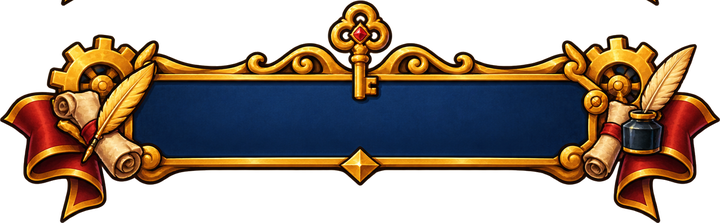
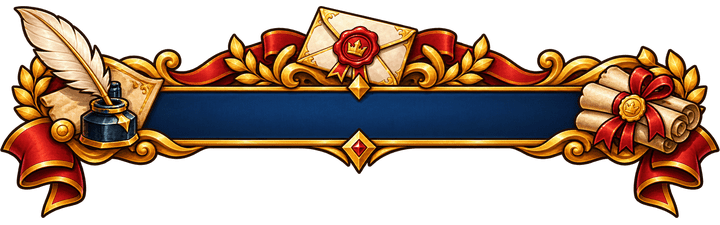
우편함 제목 배너
Claude-Session: https://claude.ai/code/session_011AypWsTwCXy5ahmKUPDYwt

diff --git a/sw.js b/sw.js
@@ -1,6 +1,6 @@
 /* 왕이 되는 그날까지 — 오프라인 실행용 서비스 워커 (tools/build_sw.py가 만듦, 직접 고치지 말 것) */
-const VERSION='c8984c0cf5';
-const MAP={"assets/bg/ash_far.png":"abfdc7ad7e","assets/bg/ash_ground.png":"fbd17f65c8","assets/bg/ash_mid.png":"bf807812ec","assets/bg/ash_sky.png":"300201d8a2","assets/bg/canyon_far.png":"a9cc422fed","assets/bg/canyon_ground.png":"d5f682c619","assets/bg/canyon_mid.png":"e5e4324591","assets/bg/canyon_sky.png":"9c202a64b5","assets/bg/dusk_far.png":"f566503025","assets/bg/dusk_ground.png":"d4760254fd","assets/bg/dusk_mid.png":"e0989d31a1","assets/bg/dusk_sky.png":"c82f7b61d3","assets/bg/erdan_far.png":"d094fc7ce5","assets/bg/erdan_ground.png":"d3529606e8","assets/bg/erdan_mid.png":"c8ad3804c1","assets/bg/erdan_sky.png":"1e05f8731e","assets/bg/frost_far.png":"19dad2ce88","assets/bg/frost_ground.png":"3b9d5fb014","assets/bg/frost_mid.png":"69a80fb601","assets/bg/frost_sky.png":"955f847347","assets/characters/brida_attack.png":"8a08e6bed8","assets/characters/brida_hit.png":"917e69900f","assets/characters/brida_idle.png":"9d37c07a5e","assets/characters/brida_walk.png":"35456db495","assets/characters/bron_attack.png":"3a0e0caf42","assets/characters/bron_hit.png":"84a7154e77","assets/characters/bron_idle.png":"61229dcc5b","assets/characters/bron_walk.png":"7dad3ba0f2","assets/characters/daisy_attack.png":"4b7c1426b9","assets/characters/daisy_hit.png":"8f1a0878af","assets/characters/daisy_idle.png":"61377c6830","assets/characters/daisy_walk.png":"d5f2435e50","assets/characters/gordon_attack.png":"68652efe05","assets/characters/gordon_hit.png":"c801ae79b5","assets/characters/gordon_idle.png":"3784327d72","assets/characters/gordon_walk.png":"2a61a74afb","assets/characters/haral_attack.png":"978f3afc3f","assets/characters/haral_hit.png":"213362f649","assets/characters/haral_idle.png":"8bf0bf6d20","assets/characters/haral_walk.png":"39e8f29d2f","assets/characters/kael_attack.png":"dbd47d1705","assets/characters/kael_hit.png":"b0fbed0ea5","assets/characters/kael_idle.png":"29cdfa8cdc","assets/characters/kael_walk.png":"884487f656","assets/characters/luka_attack.png":"10b694870b","assets/characters/luka_hit.png":"00d56f7f82","assets/characters/luka_idle.png":"0c7c261f4e","assets/characters/luka_walk.png":"ffde5d0b12","assets/characters/margo_attack.png":"5801b486be","assets/characters/margo_hit.png":"1340b2a211","assets/characters/margo_idle.png":"d44c7fa00a","assets/characters/margo_walk.png":"86be37ce75","assets/characters/nella_attack.png":"c56d9ca13c","assets/characters/nella_hit.png":"4b975ad670","assets/characters/nella_idle.png":"c666efcc20","assets/characters/nella_walk.png":"e4712b243c","assets/characters/riel_attack.png":"08dc86ec82","assets/characters/riel_hit.png":"22eb8eaca6","assets/characters/riel_idle.png":"3cf3652c06","assets/characters/riel_walk.png":"d429ca1f71","assets/crops/crop_carrot_1.png":"f521f1b21a","assets/crops/crop_carrot_2.png":"96412cae61","assets/crops/crop_carrot_3.png":"0caab08be8","assets/crops/crop_carrot_4.png":"631ee0ae4c","assets/crops/crop_pumpkin_1.png":"17da246fd2","assets/crops/crop_pumpkin_2.png":"4bd771eea2","assets/crops/crop_pumpkin_3.png":"b0e0de0917","assets/crops/crop_pumpkin_4.png":"4199c151ff","assets/crops/crop_wheat_1.png":"b2c4cba4cd","assets/crops/crop_wheat_2.png":"9f43ac98c5","assets/crops/crop_wheat_3.png":"1980c09851","assets/crops/crop_wheat_4.png":"96d9a3ad42","assets/crops/plot_empty.png":"bf40b6ed45","assets/fonts/hahmlet-500.woff2":"2e21f9e04c","assets/fonts/hahmlet-700.woff2":"cff1c42d55","assets/fonts/plexkr-400.woff2":"2185fb2e58","assets/fonts/plexkr-600.woff2":"760cba76f5","assets/fx/fx_bees.png":"a77e742ff9","assets/fx/fx_coin.png":"83d65bf09a","assets/fx/fx_crit.png":"08659b9d49","assets/fx/fx_harpoon.png":"84a4e2831d","assets/fx/fx_heal.png":"9ceeb9de2e","assets/fx/fx_hit.png":"b9b3abbcaf","assets/fx/fx_skill_brida.png":"55e34584e8","assets/fx/fx_skill_bron.png":"ecbc795a27","assets/fx/fx_skill_daisy.png":"4f3bb837b2","assets/fx/fx_skill_gordon.png":"1e8ac2eb87","assets/fx/fx_skill_haral.png":"5e1499b5c7","assets/fx/fx_skill_kael.png":"81aabe4d33","assets/fx/fx_skill_luka.png":"85cac3f606","assets/fx/fx_skill_margo.png":"ac0d3edc16","assets/fx/fx_skill_nella.png":"e508630a6f","assets/fx/fx_skill_riel.png":"47270c84f8","assets/fx/fx_soup.png":"4b941315f8","assets/gem/gem_pack_1.png":"fbaa0f6542","assets/gem/gem_pack_2.png":"89bccb5745","assets/gem/gem_pack_3.png":"5b0c3058fd","assets/gem/gem_pack_4.png":"4b01620dbd","assets/gem/gem_pack_5.png":"3d29e897fe","assets/gem/gem_pack_6.png":"5164494272","assets/gem/ui_gem.png":"d72701ba7d","assets/icon/apple-touch-icon.png":"e50c9e6bf1","assets/icon/favicon-16.png":"2db4311b5d","assets/icon/favicon-32.png":"440db49613","assets/icon/icon-192.png":"441e2997bd","assets/icon/icon-512.png":"eda2be997b","assets/illust/illust_join.jpg":"4d0406de00","assets/illust/illust_offline.jpg":"809bf511a2","assets/illust/illust_prologue.jpg":"9beba365b5","assets/illust/illust_retire.jpg":"74ff311a7f","assets/illust/illust_title.jpg":"006adb3633","assets/map/ash_boss.png":"a8be9e52dc","assets/map/ash_enemy.png":"d2262367aa","assets/map/canyon_boss.png":"6b7c17a49c","assets/map/canyon_enemy.png":"e2d7d4ebcd","assets/map/capital_locked.png":"c828d1f67a","assets/map/capital_open.png":"cee360a677","assets/map/dusk_boss.png":"dbf6d0b566","assets/map/dusk_enemy.png":"543dbb2608","assets/map/erdan_boss.png":"63719713d5","assets/map/erdan_enemy.png":"b3c3a8a4e9","assets/map/frost_boss.png":"6ec913cade","assets/map/frost_enemy.png":"87e0ecc588","assets/monsters/bat_shadow_attack.png":"733f900992","assets/monsters/bat_shadow_hit.png":"6c6777143a","assets/monsters/bat_shadow_walk.png":"4bdf69f59e","assets/monsters/boss_aldor_attack.png":"98d147de33","assets/monsters/boss_aldor_hit.png":"8ef2631028","assets/monsters/boss_aldor_walk.png":"dc30c29780","assets/monsters/boss_gromak_attack.png":"79580dc79a","assets/monsters/boss_gromak_hit.png":"8afa36ddae","assets/monsters/boss_gromak_walk.png":"508e49c3f2","assets/monsters/boss_ignis_attack.png":"b3792ddac0","assets/monsters/boss_ignis_hit.png":"39874ec8ec","assets/monsters/boss_ignis_walk.png":"745f03cf3c","assets/monsters/boss_morbas_attack.png":"b90b8b6dbd","assets/monsters/boss_morbas_hit.png":"b2e28fd059","assets/monsters/boss_morbas_walk.png":"c14aa48d24","assets/monsters/boss_seril_attack.png":"87c378c111","assets/monsters/boss_seril_hit.png":"8ee606e7e9","assets/monsters/boss_seril_walk.png":"630659de62","assets/monsters/goblin_gold_attack.png":"64a6f6f451","assets/monsters/goblin_gold_hit.png":"8b27eac950","assets/monsters/goblin_gold_walk.png":"c8a6e5c138","assets/monsters/goblin_pick_attack.png":"fa8e5c883f","assets/monsters/goblin_pick_hit.png":"066af0e709","assets/monsters/goblin_pick_walk.png":"e1f6d5d36a","assets/monsters/golem_steel_attack.png":"07e873d945","assets/monsters/golem_steel_hit.png":"67115529dc","assets/monsters/golem_steel_walk.png":"af9989172a","assets/monsters/imp_flame_attack.png":"9855e4f5e3","assets/monsters/imp_flame_hit.png":"ac4e28b83a","assets/monsters/imp_flame_walk.png":"6a0a835904","assets/monsters/scarecrow_cursed_attack.png":"19c1676923","assets/monsters/scarecrow_cursed_hit.png":"07f43ba22a","assets/monsters/scarecrow_cursed_walk.png":"0b7170d79c","assets/monsters/skeleton_frost_attack.png":"07648d88b9","assets/monsters/skeleton_frost_hit.png":"fcc108c10e","assets/monsters/skeleton_frost_walk.png":"74294ba7e2","assets/monsters/slime_ash_attack.png":"031d213acf","assets/monsters/slime_ash_hit.png":"ce2fa4d31b","assets/monsters/slime_ash_walk.png":"03ae7c49a4","assets/monsters/slime_plague_attack.png":"d4f6075abb","assets/monsters/slime_plague_hit.png":"bb74341a7e","assets/monsters/slime_plague_walk.png":"151b47bf12","assets/monsters/wolf_shadow_attack.png":"a6a83b34b8","assets/monsters/wolf_shadow_hit.png":"82a1af6e1d","assets/monsters/wolf_shadow_walk.png":"1251356e09","assets/monsters/wraith_frost_attack.png":"f5f41001fb","assets/monsters/wraith_frost_hit.png":"6348e92571","assets/monsters/wraith_frost_walk.png":"131c82c5ac","assets/portraits/portrait_aldor_idle.png":"07633d6214","assets/portraits/portrait_brida_idle.png":"cdf6882dec","assets/portraits/portrait_brida_laugh.png":"cde04938db","assets/portraits/portrait_bron_idle.png":"eb202419e5","assets/portraits/portrait_bron_laugh.png":"067dda71a1","assets/portraits/portrait_daisy_idle.png":"8b95fff77a","assets/portraits/portrait_daisy_laugh.png":"38c0f6471b","assets/portraits/portrait_gordon_idle.png":"9115efb052","assets/portraits/portrait_gordon_laugh.png":"03b62ce20f","assets/portraits/portrait_gromak_idle.png":"b4510b3437","assets/portraits/portrait_haral_idle.png":"8057bc4036","assets/portraits/portrait_haral_laugh.png":"c213936ee8","assets/portraits/portrait_ignis_idle.png":"6bb8479476","assets/portraits/portrait_kael_flustered.png":"dcbbe42cd0","assets/portraits/portrait_kael_idle.png":"2faad1bb9c","assets/portraits/portrait_kael_smile.png":"880d0b870c","assets/portraits/portrait_kael_surprised.png":"f49dfef839","assets/portraits/portrait_luka_idle.png":"ef693f34ba","assets/portraits/portrait_luka_laugh.png":"aafc2ba36c","assets/portraits/portrait_luminar_angry.png":"406fff108e","assets/portraits/portrait_luminar_moved.png":"ac97db5b14","assets/portraits/portrait_luminar_proud.png":"5a078f2d6f","assets/portraits/portrait_margo_idle.png":"a390d73c66","assets/portraits/portrait_margo_laugh.png":"6a6d2380f8","assets/portraits/portrait_marta_idle.png":"d86a9956f4","assets/portraits/portrait_morbas_idle.png":"1ed03a2888","assets/portraits/portrait_nella_idle.png":"b11813c857","assets/portraits/portrait_nella_laugh.png":"05ff86fd98","assets/portraits/portrait_pete_idle.png":"d14833cc91","assets/portraits/portrait_riel_idle.png":"31ca54792c","assets/portraits/portrait_riel_laugh.png":"40f5ce426b","assets/portraits/portrait_seril_idle.png":"52fb8d0eb1","assets/portraits/portrait_toby_idle.png":"ea6aef3ceb","assets/profile/badge_basket.png":"19ad639d98","assets/profile/badge_champ.png":"87c7d121ac","assets/profile/badge_chest.png":"1997070288","assets/profile/badge_crown1.png":"87c7d121ac","assets/profile/badge_crown2.png":"87c7d121ac","assets/profile/badge_crown3.png":"87c7d121ac","assets/profile/badge_goblin.png":"a97a7db198","assets/profile/badge_horns.png":"eb77cb7f93","assets/profile/badge_king.png":"87c7d121ac","assets/profile/badge_pumpkin.png":"e191405060","assets/profile/badge_rebuild.png":"100b0d8092","assets/profile/badge_retire.png":"68a96ee52e","assets/profile/badge_stew.png":"c5615ba22c","assets/profile/badge_top10.png":"87c7d121ac","assets/profile/frame_amethyst.png":"33596ec882","assets/profile/frame_conquer.png":"ac627fc7a3","assets/profile/frame_goblin.png":"206ee5a860","assets/profile/frame_gold.png":"ac627fc7a3","assets/profile/frame_harvest.png":"1b0b11ae0b","assets/profile/frame_holy.png":"1af08de6e7","assets/profile/frame_royal.png":"e21f45a33a","assets/profile/frame_season.png":"e21f45a33a","assets/profile/frame_silver.png":"1db41ebcfa","assets/profile/frame_straw.png":"0810bf19b1","assets/profile/frame_wood.png":"99f33b8a46","assets/relic/relic_armor_1.png":"16d76a13c5","assets/relic/relic_armor_2.png":"87fb210070","assets/relic/relic_armor_3.png":"dd11fe2783","assets/relic/relic_boots_1.png":"d9a8c049ac","assets/relic/relic_boots_2.png":"efd27637b0","assets/relic/relic_boots_3.png":"5a612f2e27","assets/relic/relic_gloves_1.png":"5e8bee64d0","assets/relic/relic_gloves_2.png":"6795c922c5","assets/relic/relic_gloves_3.png":"67e14c6405","assets/relic/relic_helm_1.png":"455c59b819","assets/relic/relic_helm_2.png":"d18874e0e3","assets/relic/relic_helm_3.png":"cf800e2dad","assets/relic/relic_ring_1.png":"10edfdff76","assets/relic/relic_ring_2.png":"78a2cc0f51","assets/relic/relic_ring_3.png":"b2278ff8ee","assets/relic/relic_weapon_1.png":"dcc7c7540a","assets/relic/relic_weapon_2.png":"5fdd6cc2b3","assets/relic/relic_weapon_3.png":"f0135343bd","assets/skills/skill_brida.png":"0aa718bf0d","assets/skills/skill_bron.png":"08c7b35e76","assets/skills/skill_daisy.png":"8ee38fd0b9","assets/skills/skill_gordon.png":"28dcc7dd68","assets/skills/skill_haral.png":"d392acbc14","assets/skills/skill_kael.png":"85c628e6a9","assets/skills/skill_luka.png":"ed4206fe68","assets/skills/skill_margo.png":"1498522d74","assets/skills/skill_nella.png":"04dc833078","assets/skills/skill_riel.png":"7aca6249d7","assets/ui/banner_capture.png":"cdce0b7ac7","assets/ui/bld_apiary.png":"1c86733003","assets/ui/bld_diner.png":"386a2fd60f","assets/ui/bld_dock.png":"f0409530e4","assets/ui/bld_farm.png":"ba8a24d8a9","assets/ui/bld_inn.png":"6857ad2ff5","assets/ui/bld_mine.png":"db914dbca5","assets/ui/boss_aura_commander.png":"3f9d291d94","assets/ui/boss_aura_lord.png":"785308d542","assets/ui/boss_mark_commander.png":"77e1e1b4bb","assets/ui/boss_mark_lord.png":"123c1b4432","assets/ui/btn_auto.png":"bb952f4274","assets/ui/btn_x1.png":"f15e57f854","assets/ui/btn_x2.png":"cc3f2a2268","assets/ui/buff_atk.png":"9a886d1ff6","assets/ui/buff_crit.png":"2b2750f8d0","assets/ui/buff_gold.png":"1a7ca0cf7c","assets/ui/buff_spd.png":"dae9c3f56c","assets/ui/card_back.png":"2e995c839d","assets/ui/card_pack3.png":"c7e9ba66d2","assets/ui/card_pack30.png":"bae3246a77","assets/ui/dish_bread.png":"cfa0004d31","assets/ui/dish_grill.png":"b3f6aa56e7","assets/ui/dish_pie.png":"ef179cd895","assets/ui/dish_stew.png":"75628aa305","assets/ui/frame_dialog.png":"1d1d83a399","assets/ui/frame_epic.png":"69a0cfc775","assets/ui/frame_legendary.png":"9a8f6852ac","assets/ui/frame_mythic.png":"83201ca46e","assets/ui/frame_normal.png":"01b42af2db","assets/ui/frame_popup.png":"20dc37c6ff","assets/ui/frame_rare.png":"6e60a9625d","assets/ui/frame_uncommon.png":"c1f9ee4e31","assets/ui/gold_pack1.png":"86f82d080a","assets/ui/gold_pack2.png":"fa9b76580c","assets/ui/gold_pack3.png":"fb7d21eb5f","assets/ui/hd_mail.png":"800b585221","assets/ui/hd_profile.png":"d6f1533dc1","assets/ui/hd_rank.png":"3d843cc8fc","assets/ui/hd_settings.png":"800b585221","assets/ui/icon_mail.png":"0218f23f44","assets/ui/item_carrot.png":"9d51a5ea72","assets/ui/item_fish.png":"2f62e8797b","assets/ui/item_honey.png":"fbdf3d5e01","assets/ui/item_ore.png":"6eb3cdcb49","assets/ui/item_pumpkin.png":"074c67fcb2","assets/ui/item_wheat.png":"69fac25d82","assets/ui/job_cook.png":"8ecd134595","assets/ui/job_fisher.png":"f8d9a89f41","assets/ui/job_keeper.png":"cac89bfa34","assets/ui/job_miner.png":"004c57a1e5","assets/ui/logo.png":"2d22e7ca80","assets/ui/node_boss.png":"c79760401f","assets/ui/node_captured.png":"0a83211c2b","assets/ui/node_current.png":"c4a3ba8982","assets/ui/node_enemy.png":"55c59af8ea","assets/ui/rank_count.png":"f0e9a8bd8c","assets/ui/rank_duke.png":"80cb0fc6fa","assets/ui/rank_farmer.png":"493f3b96e1","assets/ui/rank_guard.png":"8a70f1c39c","assets/ui/rank_king.png":"a34e27d982","assets/ui/rank_knight.png":"78adabb17a","assets/ui/rank_lord.png":"77bb49441a","assets/ui/relic_chest.png":"9311479aa1","assets/ui/seed_carrot.png":"f21317e672","assets/ui/seed_pumpkin.png":"de9e24a972","assets/ui/seed_wheat.png":"bc87c11aee","assets/ui/slot_armor.png":"83816d046b","assets/ui/slot_boots.png":"01c1c89cdb","assets/ui/slot_gloves.png":"483d5aba63","assets/ui/slot_hat.png":"45c39d6e0c","assets/ui/slot_ring.png":"3707240c55","assets/ui/slot_weapon.png":"d76a948b02","assets/ui/tab_equipment.png":"cebacb923b","assets/ui/tab_map.png":"5178bc1d54","assets/ui/tab_party.png":"80412a0e78","assets/ui/tab_training.png":"f090ee0719","assets/ui/tab_village.png":"87cabcf9cb","assets/ui/ui_boss_mark.png":"8fe434b274","assets/ui/ui_gold.png":"12070643fb","assets/ui/upg_atk.png":"f736f9ddc3","assets/ui/upg_crit.png":"8cf9c877a8","assets/ui/upg_hp.png":"f3d35d179c","assets/ui/upg_spd.png":"6d0b67053f","assets/ui/village_skill.png":"651e2edbde","assets/village/apiary_built.png":"001bb8753d","assets/village/apiary_ruin.png":"42a1170bd6","assets/village/diner_built.png":"50f46b5946","assets/village/diner_ruin.png":"e09f4a687d","assets/village/dock_built.png":"10894845e0","assets/village/dock_ruin.png":"975d3eea4f","assets/village/farm_built.png":"2331d98d5b","assets/village/farm_ruin.png":"6f4bde33f4","assets/village/inn_built.png":"75f5599f0b","assets/village/inn_ruin.png":"31dfd01982","assets/village/mine_built.png":"85b66e411e","assets/village/mine_ruin.png":"b773da1822","assets/village/village_bg.jpg":"d7046fd11a","favicon.ico":"48e226949a","manifest.webmanifest":"cba9531993"};
+const VERSION='3465763212';
+const MAP={"assets/bg/ash_far.png":"abfdc7ad7e","assets/bg/ash_ground.png":"fbd17f65c8","assets/bg/ash_mid.png":"bf807812ec","assets/bg/ash_sky.png":"300201d8a2","assets/bg/canyon_far.png":"a9cc422fed","assets/bg/canyon_ground.png":"d5f682c619","assets/bg/canyon_mid.png":"e5e4324591","assets/bg/canyon_sky.png":"9c202a64b5","assets/bg/dusk_far.png":"f566503025","assets/bg/dusk_ground.png":"d4760254fd","assets/bg/dusk_mid.png":"e0989d31a1","assets/bg/dusk_sky.png":"c82f7b61d3","assets/bg/erdan_far.png":"d094fc7ce5","assets/bg/erdan_ground.png":"d3529606e8","assets/bg/erdan_mid.png":"c8ad3804c1","assets/bg/erdan_sky.png":"1e05f8731e","assets/bg/frost_far.png":"19dad2ce88","assets/bg/frost_ground.png":"3b9d5fb014","assets/bg/frost_mid.png":"69a80fb601","assets/bg/frost_sky.png":"955f847347","assets/characters/brida_attack.png":"8a08e6bed8","assets/characters/brida_hit.png":"917e69900f","assets/characters/brida_idle.png":"9d37c07a5e","assets/characters/brida_walk.png":"35456db495","assets/characters/bron_attack.png":"3a0e0caf42","assets/characters/bron_hit.png":"84a7154e77","assets/characters/bron_idle.png":"61229dcc5b","assets/characters/bron_walk.png":"7dad3ba0f2","assets/characters/daisy_attack.png":"4b7c1426b9","assets/characters/daisy_hit.png":"8f1a0878af","assets/characters/daisy_idle.png":"61377c6830","assets/characters/daisy_walk.png":"d5f2435e50","assets/characters/gordon_attack.png":"68652efe05","assets/characters/gordon_hit.png":"c801ae79b5","assets/characters/gordon_idle.png":"3784327d72","assets/characters/gordon_walk.png":"2a61a74afb","assets/characters/haral_attack.png":"978f3afc3f","assets/characters/haral_hit.png":"213362f649","assets/characters/haral_idle.png":"8bf0bf6d20","assets/characters/haral_walk.png":"39e8f29d2f","assets/characters/kael_attack.png":"dbd47d1705","assets/characters/kael_hit.png":"b0fbed0ea5","assets/characters/kael_idle.png":"29cdfa8cdc","assets/characters/kael_walk.png":"884487f656","assets/characters/luka_attack.png":"10b694870b","assets/characters/luka_hit.png":"00d56f7f82","assets/characters/luka_idle.png":"0c7c261f4e","assets/characters/luka_walk.png":"ffde5d0b12","assets/characters/margo_attack.png":"5801b486be","assets/characters/margo_hit.png":"1340b2a211","assets/characters/margo_idle.png":"d44c7fa00a","assets/characters/margo_walk.png":"86be37ce75","assets/characters/nella_attack.png":"c56d9ca13c","assets/characters/nella_hit.png":"4b975ad670","assets/characters/nella_idle.png":"c666efcc20","assets/characters/nella_walk.png":"e4712b243c","assets/characters/riel_attack.png":"08dc86ec82","assets/characters/riel_hit.png":"22eb8eaca6","assets/characters/riel_idle.png":"3cf3652c06","assets/characters/riel_walk.png":"d429ca1f71","assets/crops/crop_carrot_1.png":"f521f1b21a","assets/crops/crop_carrot_2.png":"96412cae61","assets/crops/crop_carrot_3.png":"0caab08be8","assets/crops/crop_carrot_4.png":"631ee0ae4c","assets/crops/crop_pumpkin_1.png":"17da246fd2","assets/crops/crop_pumpkin_2.png":"4bd771eea2","assets/crops/crop_pumpkin_3.png":"b0e0de0917","assets/crops/crop_pumpkin_4.png":"4199c151ff","assets/crops/crop_wheat_1.png":"b2c4cba4cd","assets/crops/crop_wheat_2.png":"9f43ac98c5","assets/crops/crop_wheat_3.png":"1980c09851","assets/crops/crop_wheat_4.png":"96d9a3ad42","assets/crops/plot_empty.png":"bf40b6ed45","assets/fonts/hahmlet-500.woff2":"2e21f9e04c","assets/fonts/hahmlet-700.woff2":"cff1c42d55","assets/fonts/plexkr-400.woff2":"2185fb2e58","assets/fonts/plexkr-600.woff2":"760cba76f5","assets/fx/fx_bees.png":"a77e742ff9","assets/fx/fx_coin.png":"83d65bf09a","assets/fx/fx_crit.png":"08659b9d49","assets/fx/fx_harpoon.png":"84a4e2831d","assets/fx/fx_heal.png":"9ceeb9de2e","assets/fx/fx_hit.png":"b9b3abbcaf","assets/fx/fx_skill_brida.png":"55e34584e8","assets/fx/fx_skill_bron.png":"ecbc795a27","assets/fx/fx_skill_daisy.png":"4f3bb837b2","assets/fx/fx_skill_gordon.png":"1e8ac2eb87","assets/fx/fx_skill_haral.png":"5e1499b5c7","assets/fx/fx_skill_kael.png":"81aabe4d33","assets/fx/fx_skill_luka.png":"85cac3f606","assets/fx/fx_skill_margo.png":"ac0d3edc16","assets/fx/fx_skill_nella.png":"e508630a6f","assets/fx/fx_skill_riel.png":"47270c84f8","assets/fx/fx_soup.png":"4b941315f8","assets/gem/gem_pack_1.png":"fbaa0f6542","assets/gem/gem_pack_2.png":"89bccb5745","assets/gem/gem_pack_3.png":"5b0c3058fd","assets/gem/gem_pack_4.png":"4b01620dbd","assets/gem/gem_pack_5.png":"3d29e897fe","assets/gem/gem_pack_6.png":"5164494272","assets/gem/ui_gem.png":"d72701ba7d","assets/icon/apple-touch-icon.png":"e50c9e6bf1","assets/icon/favicon-16.png":"2db4311b5d","assets/icon/favicon-32.png":"440db49613","assets/icon/icon-192.png":"441e2997bd","assets/icon/icon-512.png":"eda2be997b","assets/illust/illust_join.jpg":"4d0406de00","assets/illust/illust_offline.jpg":"809bf511a2","assets/illust/illust_prologue.jpg":"9beba365b5","assets/illust/illust_retire.jpg":"74ff311a7f","assets/illust/illust_title.jpg":"006adb3633","assets/map/ash_boss.png":"a8be9e52dc","assets/map/ash_enemy.png":"d2262367aa","assets/map/canyon_boss.png":"6b7c17a49c","assets/map/canyon_enemy.png":"e2d7d4ebcd","assets/map/capital_locked.png":"c828d1f67a","assets/map/capital_open.png":"cee360a677","assets/map/dusk_boss.png":"dbf6d0b566","assets/map/dusk_enemy.png":"543dbb2608","assets/map/erdan_boss.png":"63719713d5","assets/map/erdan_enemy.png":"b3c3a8a4e9","assets/map/frost_boss.png":"6ec913cade","assets/map/frost_enemy.png":"87e0ecc588","assets/monsters/bat_shadow_attack.png":"733f900992","assets/monsters/bat_shadow_hit.png":"6c6777143a","assets/monsters/bat_shadow_walk.png":"4bdf69f59e","assets/monsters/boss_aldor_attack.png":"98d147de33","assets/monsters/boss_aldor_hit.png":"8ef2631028","assets/monsters/boss_aldor_walk.png":"dc30c29780","assets/monsters/boss_gromak_attack.png":"79580dc79a","assets/monsters/boss_gromak_hit.png":"8afa36ddae","assets/monsters/boss_gromak_walk.png":"508e49c3f2","assets/monsters/boss_ignis_attack.png":"b3792ddac0","assets/monsters/boss_ignis_hit.png":"39874ec8ec","assets/monsters/boss_ignis_walk.png":"745f03cf3c","assets/monsters/boss_morbas_attack.png":"b90b8b6dbd","assets/monsters/boss_morbas_hit.png":"b2e28fd059","assets/monsters/boss_morbas_walk.png":"c14aa48d24","assets/monsters/boss_seril_attack.png":"87c378c111","assets/monsters/boss_seril_hit.png":"8ee606e7e9","assets/monsters/boss_seril_walk.png":"630659de62","assets/monsters/goblin_gold_attack.png":"64a6f6f451","assets/monsters/goblin_gold_hit.png":"8b27eac950","assets/monsters/goblin_gold_walk.png":"c8a6e5c138","assets/monsters/goblin_pick_attack.png":"fa8e5c883f","assets/monsters/goblin_pick_hit.png":"066af0e709","assets/monsters/goblin_pick_walk.png":"e1f6d5d36a","assets/monsters/golem_steel_attack.png":"07e873d945","assets/monsters/golem_steel_hit.png":"67115529dc","assets/monsters/golem_steel_walk.png":"af9989172a","assets/monsters/imp_flame_attack.png":"9855e4f5e3","assets/monsters/imp_flame_hit.png":"ac4e28b83a","assets/monsters/imp_flame_walk.png":"6a0a835904","assets/monsters/scarecrow_cursed_attack.png":"19c1676923","assets/monsters/scarecrow_cursed_hit.png":"07f43ba22a","assets/monsters/scarecrow_cursed_walk.png":"0b7170d79c","assets/monsters/skeleton_frost_attack.png":"07648d88b9","assets/monsters/skeleton_frost_hit.png":"fcc108c10e","assets/monsters/skeleton_frost_walk.png":"74294ba7e2","assets/monsters/slime_ash_attack.png":"031d213acf","assets/monsters/slime_ash_hit.png":"ce2fa4d31b","assets/monsters/slime_ash_walk.png":"03ae7c49a4","assets/monsters/slime_plague_attack.png":"d4f6075abb","assets/monsters/slime_plague_hit.png":"bb74341a7e","assets/monsters/slime_plague_walk.png":"151b47bf12","assets/monsters/wolf_shadow_attack.png":"a6a83b34b8","assets/monsters/wolf_shadow_hit.png":"82a1af6e1d","assets/monsters/wolf_shadow_walk.png":"1251356e09","assets/monsters/wraith_frost_attack.png":"f5f41001fb","assets/monsters/wraith_frost_hit.png":"6348e92571","assets/monsters/wraith_frost_walk.png":"131c82c5ac","assets/portraits/portrait_aldor_idle.png":"07633d6214","assets/portraits/portrait_brida_idle.png":"cdf6882dec","assets/portraits/portrait_brida_laugh.png":"cde04938db","assets/portraits/portrait_bron_idle.png":"eb202419e5","assets/portraits/portrait_bron_laugh.png":"067dda71a1","assets/portraits/portrait_daisy_idle.png":"8b95fff77a","assets/portraits/portrait_daisy_laugh.png":"38c0f6471b","assets/portraits/portrait_gordon_idle.png":"9115efb052","assets/portraits/portrait_gordon_laugh.png":"03b62ce20f","assets/portraits/portrait_gromak_idle.png":"b4510b3437","assets/portraits/portrait_haral_idle.png":"8057bc4036","assets/portraits/portrait_haral_laugh.png":"c213936ee8","assets/portraits/portrait_ignis_idle.png":"6bb8479476","assets/portraits/portrait_kael_flustered.png":"dcbbe42cd0","assets/portraits/portrait_kael_idle.png":"2faad1bb9c","assets/portraits/portrait_kael_smile.png":"880d0b870c","assets/portraits/portrait_kael_surprised.png":"f49dfef839","assets/portraits/portrait_luka_idle.png":"ef693f34ba","assets/portraits/portrait_luka_laugh.png":"aafc2ba36c","assets/portraits/portrait_luminar_angry.png":"406fff108e","assets/portraits/portrait_luminar_moved.png":"ac97db5b14","assets/portraits/portrait_luminar_proud.png":"5a078f2d6f","assets/portraits/portrait_margo_idle.png":"a390d73c66","assets/portraits/portrait_margo_laugh.png":"6a6d2380f8","assets/portraits/portrait_marta_idle.png":"d86a9956f4","assets/portraits/portrait_morbas_idle.png":"1ed03a2888","assets/portraits/portrait_nella_idle.png":"b11813c857","assets/portraits/portrait_nella_laugh.png":"05ff86fd98","assets/portraits/portrait_pete_idle.png":"d14833cc91","assets/portraits/portrait_riel_idle.png":"31ca54792c","assets/portraits/portrait_riel_laugh.png":"40f5ce426b","assets/portraits/portrait_seril_idle.png":"52fb8d0eb1","assets/portraits/portrait_toby_idle.png":"ea6aef3ceb","assets/profile/badge_basket.png":"19ad639d98","assets/profile/badge_champ.png":"87c7d121ac","assets/profile/badge_chest.png":"1997070288","assets/profile/badge_crown1.png":"87c7d121ac","assets/profile/badge_crown2.png":"87c7d121ac","assets/profile/badge_crown3.png":"87c7d121ac","assets/profile/badge_goblin.png":"a97a7db198","assets/profile/badge_horns.png":"eb77cb7f93","assets/profile/badge_king.png":"87c7d121ac","assets/profile/badge_pumpkin.png":"e191405060","assets/profile/badge_rebuild.png":"100b0d8092","assets/profile/badge_retire.png":"68a96ee52e","assets/profile/badge_stew.png":"c5615ba22c","assets/profile/badge_top10.png":"87c7d121ac","assets/profile/frame_amethyst.png":"33596ec882","assets/profile/frame_conquer.png":"ac627fc7a3","assets/profile/frame_goblin.png":"206ee5a860","assets/profile/frame_gold.png":"ac627fc7a3","assets/profile/frame_harvest.png":"1b0b11ae0b","assets/profile/frame_holy.png":"1af08de6e7","assets/profile/frame_royal.png":"e21f45a33a","assets/profile/frame_season.png":"e21f45a33a","assets/profile/frame_silver.png":"1db41ebcfa","assets/profile/frame_straw.png":"0810bf19b1","assets/profile/frame_wood.png":"99f33b8a46","assets/relic/relic_armor_1.png":"16d76a13c5","assets/relic/relic_armor_2.png":"87fb210070","assets/relic/relic_armor_3.png":"dd11fe2783","assets/relic/relic_boots_1.png":"d9a8c049ac","assets/relic/relic_boots_2.png":"efd27637b0","assets/relic/relic_boots_3.png":"5a612f2e27","assets/relic/relic_gloves_1.png":"5e8bee64d0","assets/relic/relic_gloves_2.png":"6795c922c5","assets/relic/relic_gloves_3.png":"67e14c6405","assets/relic/relic_helm_1.png":"455c59b819","assets/relic/relic_helm_2.png":"d18874e0e3","assets/relic/relic_helm_3.png":"cf800e2dad","assets/relic/relic_ring_1.png":"10edfdff76","assets/relic/relic_ring_2.png":"78a2cc0f51","assets/relic/relic_ring_3.png":"b2278ff8ee","assets/relic/relic_weapon_1.png":"dcc7c7540a","assets/relic/relic_weapon_2.png":"5fdd6cc2b3","assets/relic/relic_weapon_3.png":"f0135343bd","assets/skills/skill_brida.png":"0aa718bf0d","assets/skills/skill_bron.png":"08c7b35e76","assets/skills/skill_daisy.png":"8ee38fd0b9","assets/skills/skill_gordon.png":"28dcc7dd68","assets/skills/skill_haral.png":"d392acbc14","assets/skills/skill_kael.png":"85c628e6a9","assets/skills/skill_luka.png":"ed4206fe68","assets/skills/skill_margo.png":"1498522d74","assets/skills/skill_nella.png":"04dc833078","assets/skills/skill_riel.png":"7aca6249d7","assets/ui/banner_capture.png":"cdce0b7ac7","assets/ui/bld_apiary.png":"1c86733003","assets/ui/bld_diner.png":"386a2fd60f","assets/ui/bld_dock.png":"f0409530e4","assets/ui/bld_farm.png":"ba8a24d8a9","assets/ui/bld_inn.png":"6857ad2ff5","assets/ui/bld_mine.png":"db914dbca5","assets/ui/boss_aura_commander.png":"3f9d291d94","assets/ui/boss_aura_lord.png":"785308d542","assets/ui/boss_mark_commander.png":"77e1e1b4bb","assets/ui/boss_mark_lord.png":"123c1b4432","assets/ui/btn_auto.png":"bb952f4274","assets/ui/btn_x1.png":"f15e57f854","assets/ui/btn_x2.png":"cc3f2a2268","assets/ui/buff_atk.png":"9a886d1ff6","assets/ui/buff_crit.png":"2b2750f8d0","assets/ui/buff_gold.png":"1a7ca0cf7c","assets/ui/buff_spd.png":"dae9c3f56c","assets/ui/card_back.png":"2e995c839d","assets/ui/card_pack3.png":"c7e9ba66d2","assets/ui/card_pack30.png":"bae3246a77","assets/ui/dish_bread.png":"cfa0004d31","assets/ui/dish_grill.png":"b3f6aa56e7","assets/ui/dish_pie.png":"ef179cd895","assets/ui/dish_stew.png":"75628aa305","assets/ui/frame_dialog.png":"1d1d83a399","assets/ui/frame_epic.png":"69a0cfc775","assets/ui/frame_legendary.png":"9a8f6852ac","assets/ui/frame_mythic.png":"83201ca46e","assets/ui/frame_normal.png":"01b42af2db","assets/ui/frame_popup.png":"20dc37c6ff","assets/ui/frame_rare.png":"6e60a9625d","assets/ui/frame_uncommon.png":"c1f9ee4e31","assets/ui/gold_pack1.png":"86f82d080a","assets/ui/gold_pack2.png":"fa9b76580c","assets/ui/gold_pack3.png":"fb7d21eb5f","assets/ui/hd_mail.png":"c7d765daa3","assets/ui/hd_profile.png":"d6f1533dc1","assets/ui/hd_rank.png":"3d843cc8fc","assets/ui/hd_settings.png":"800b585221","assets/ui/icon_mail.png":"0218f23f44","assets/ui/item_carrot.png":"9d51a5ea72","assets/ui/item_fish.png":"2f62e8797b","assets/ui/item_honey.png":"fbdf3d5e01","assets/ui/item_ore.png":"6eb3cdcb49","assets/ui/item_pumpkin.png":"074c67fcb2","assets/ui/item_wheat.png":"69fac25d82","assets/ui/job_cook.png":"8ecd134595","assets/ui/job_fisher.png":"f8d9a89f41","assets/ui/job_keeper.png":"cac89bfa34","assets/ui/job_miner.png":"004c57a1e5","assets/ui/logo.png":"2d22e7ca80","assets/ui/node_boss.png":"c79760401f","assets/ui/node_captured.png":"0a83211c2b","assets/ui/node_current.png":"c4a3ba8982","assets/ui/node_enemy.png":"55c59af8ea","assets/ui/rank_count.png":"f0e9a8bd8c","assets/ui/rank_duke.png":"80cb0fc6fa","assets/ui/rank_farmer.png":"493f3b96e1","assets/ui/rank_guard.png":"8a70f1c39c","assets/ui/rank_king.png":"a34e27d982","assets/ui/rank_knight.png":"78adabb17a","assets/ui/rank_lord.png":"77bb49441a","assets/ui/relic_chest.png":"9311479aa1","assets/ui/seed_carrot.png":"f21317e672","assets/ui/seed_pumpkin.png":"de9e24a972","assets/ui/seed_wheat.png":"bc87c11aee","assets/ui/slot_armor.png":"83816d046b","assets/ui/slot_boots.png":"01c1c89cdb","assets/ui/slot_gloves.png":"483d5aba63","assets/ui/slot_hat.png":"45c39d6e0c","assets/ui/slot_ring.png":"3707240c55","assets/ui/slot_weapon.png":"d76a948b02","assets/ui/tab_equipment.png":"cebacb923b","assets/ui/tab_map.png":"5178bc1d54","assets/ui/tab_party.png":"80412a0e78","assets/ui/tab_training.png":"f090ee0719","assets/ui/tab_village.png":"87cabcf9cb","assets/ui/ui_boss_mark.png":"8fe434b274","assets/ui/ui_gold.png":"12070643fb","assets/ui/upg_atk.png":"f736f9ddc3","assets/ui/upg_crit.png":"8cf9c877a8","assets/ui/upg_hp.png":"f3d35d179c","assets/ui/upg_spd.png":"6d0b67053f","assets/ui/village_skill.png":"651e2edbde","assets/village/apiary_built.png":"001bb8753d","assets/village/apiary_ruin.png":"42a1170bd6","assets/village/diner_built.png":"50f46b5946","assets/village/diner_ruin.png":"e09f4a687d","assets/village/dock_built.png":"10894845e0","assets/village/dock_ruin.png":"975d3eea4f","assets/village/farm_built.png":"2331d98d5b","assets/village/farm_ruin.png":"6f4bde33f4","assets/village/inn_built.png":"75f5599f0b","assets/village/inn_ruin.png":"31dfd01982","assets/village/mine_built.png":"85b66e411e","assets/village/mine_ruin.png":"b773da1822","assets/village/village_bg.jpg":"d7046fd11a","favicon.ico":"48e226949a","manifest.webmanifest":"cba9531993"};
 const PAGE='kd-page',FILES='kd-files';
 const base=self.registration.scope;
 const key=(p,h)=>new URL(p,base).href+'?v='+h;

diff --git a/index.html b/index.html
@@ -109,7 +109,7 @@ body{word-break:keep-all;overflow-wrap:break-word;line-break:strict;background:#
 .cpk img{width:64px;height:64px;object-fit:contain}.cpk{position:relative}.cpk b{position:absolute;right:-6px;bottom:2px;font-size:14px;color:#fff;text-shadow:0 1px 3px #000}
 .crc{overflow:hidden}.cbk{position:absolute;inset:0;z-index:5;display:flex;align-items:center;justify-content:center;background:linear-gradient(135deg,#1b2246,#121833);border-radius:14px;animation:cbkout .45s ease-in forwards;pointer-events:none}.cbk img{height:88%;filter:drop-shadow(0 0 8px rgba(255,210,60,.5))}@keyframes cbkout{0%{transform:none;opacity:1}60%{transform:rotateY(90deg);opacity:1}100%{transform:rotateY(90deg);opacity:0;visibility:hidden}}
 .jobi{width:16px;height:16px;vertical-align:-3px;margin-right:3px}.seat b .jobi{width:14px;height:14px;vertical-align:-2px;margin-right:2px}.jobq{width:40px;height:40px;opacity:.45;filter:grayscale(.7)}
-.hdban{position:relative;width:min(100%,330px);aspect-ratio:720/225;margin:-6px auto 2px;background:var(--hb) center/contain no-repeat;display:flex;align-items:center;justify-content:center;padding-top:1%}.hdban span{line-height:1;font-family:var(--f-display);font-weight:700;font-size:20px;color:#ffe7a6;text-shadow:0 2px 3px rgba(0,0,0,.6);letter-spacing:.04em}
+.hdban{position:relative;width:min(100%,330px);aspect-ratio:720/225;margin:-6px auto 2px;background:var(--hb) center/contain no-repeat;display:flex;align-items:center;justify-content:center;padding-top:1%}.hdban span{line-height:1;font-family:var(--f-display);font-weight:700;font-size:var(--hs,20px);color:#ffe7a6;text-shadow:0 2px 3px rgba(0,0,0,.6);letter-spacing:.04em}
 .acts.three{grid-template-columns:1fr 1fr 1fr}.rkbtn{width:100%;padding:11px 0;font-size:15px}
 .nickin{width:100%;box-sizing:border-box;font:inherit;font-size:17px;padding:10px 12px;border-radius:10px;border:1px solid var(--line);background:var(--panel2);color:var(--fg);text-align:center}.nickerr{color:#ff8a7a;text-align:center;min-height:1.2em;margin:0}
 .rktabs{position:static!important;margin:0!important}.rkinfo{font-size:13px;text-align:center;color:var(--muted)}.rkinfo b{color:var(--gold)}.rkinfo details{margin-top:6px;text-align:left}.rkinfo summary{cursor:pointer;color:var(--gold);text-align:center}
@@ -1803,7 +1803,7 @@ function mailApply(list){let gem=0;const got=[],items=[];
  if(gem)S.gem=(S.gem||0)+gem;pfCheck();save();shopSig='';partySig='';renderAll();
  const msg=[gem?'황금 이삭 +'+fmt(gem):'',...items].filter(Boolean).join(' · ');if(msg)toast(msg);if(got.length)setTimeout(()=>cardReveal(got,'우편 보상'),60)}
 async function mailClaim(id){if(mailBusy)return;mailBusy=true;try{const r=await sbRpc('kd_mail_claim',{p_id:id==null?null:id});if(Array.isArray(r)&&r.length)mailApply(r);await mailFetch()}catch(e){toast('인터넷 연결이 필요해요')}finally{mailBusy=false}if(!$('modal').hidden&&$('mailList'))mailSheet(true)}
-async function mailSheet(cached){const head=`<div class="hdban" style="--hb:url(assets/ui/hd_mail.png)"><span>우편함</span></div>`;
+async function mailSheet(cached){const head=`<div class="hdban" style="--hb:url(assets/ui/hd_mail.png);--hs:16px"><span>우편함</span></div>`;
  if(!mailOn()){$('sheet').innerHTML=head+`<p class="note" style="text-align:center">우편함을 준비하고 있어요.</p><div class="acts one"><button class="pri" id="mGo">닫기</button></div>`;$('modal').hidden=false;$('mGo').onclick=closeModal;return}
  if(!cached){$('sheet').innerHTML=head+`<p class="note" style="text-align:center">우편을 확인하는 중…</p><div class="acts one"><button class="pri" id="mGo">닫기</button></div>`;$('modal').hidden=false;$('mGo').onclick=closeModal;if(!S.nick)await sbEnsure();else await mailFetch();if(!S.nick){$('sheet').querySelector('.note').textContent='인터넷에 연결되면 우편을 받을 수 있어요.';return}}
  const day=t=>{const d=(new Date(t)-Date.now())/864e5;return d>=1?Math.floor(d)+'일 남음':Math.max(1,Math.ceil(d*24))+'시간 남음'};
